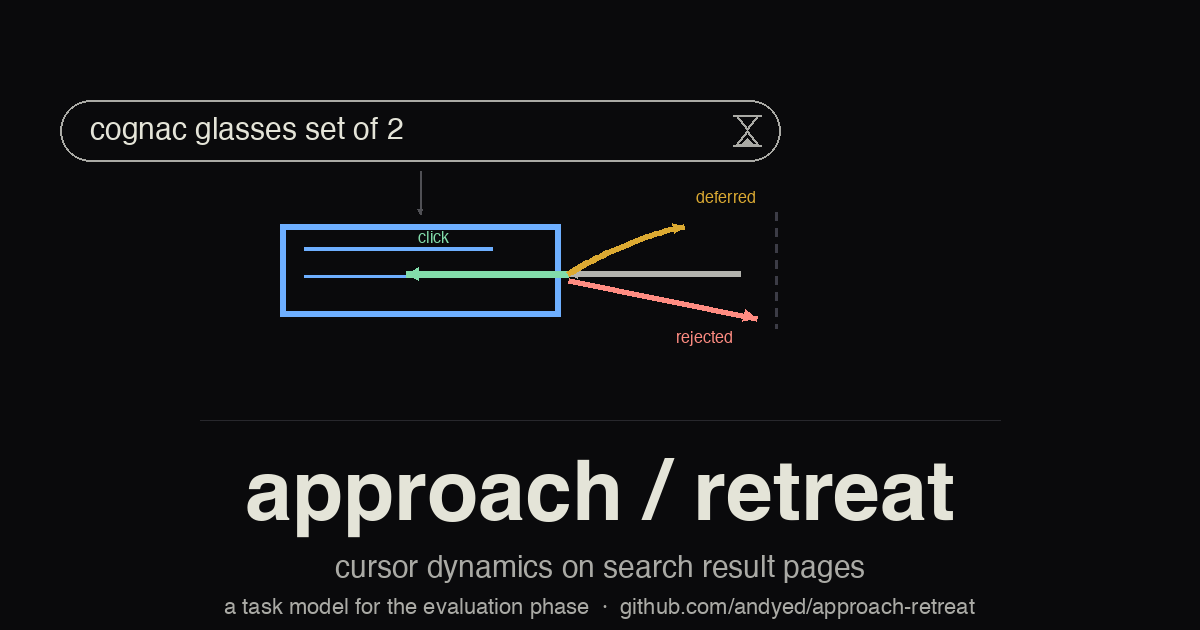
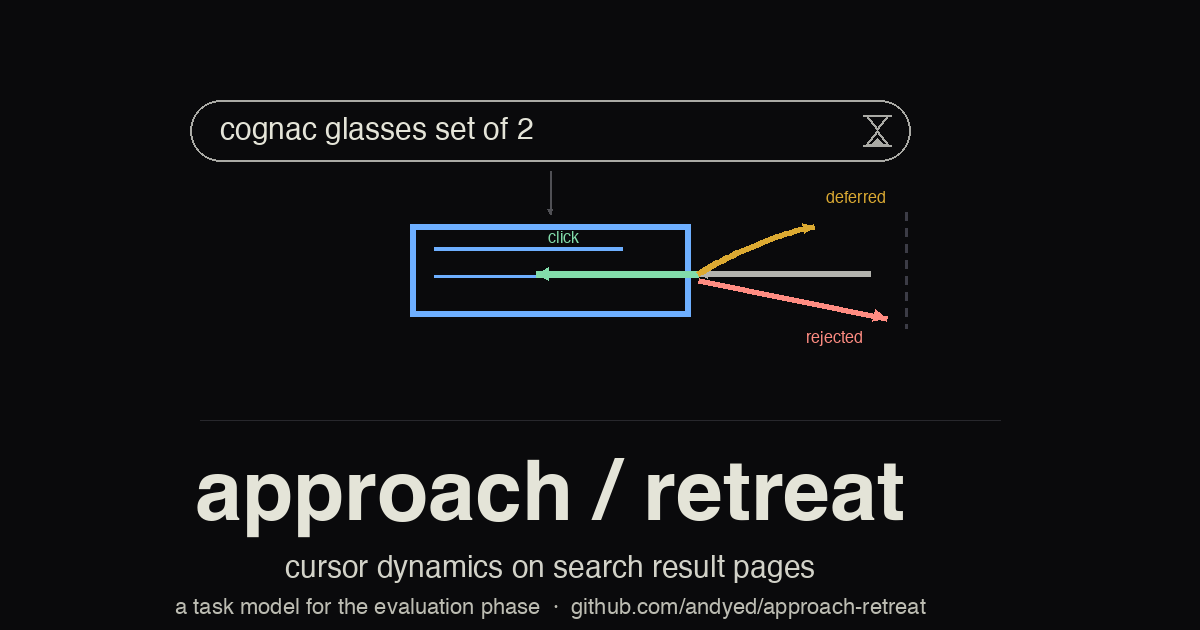
feat: brand fixes, expanded related work, Leiva program citation
Brand:
- Bright explanatory text (BRIGHT 13:1, BRIGHT_DIM 10:1) for tagline
  and attribution — was too dim at SUBTEXT (8.5:1)
- Input box + hourglass icon above the AOI in social header
- Layout anchored on AOI center, not viewport center, so input box,
  result, and wordmark share a single vertical axis

README:
- Fix ClickSense framing: ClickSense is approach+click dynamics on
  arbitrary clickable elements; approach-retreat is SERP-list-specific
- Rewrite Related work section: full Leiva/Arapakis research-program
  table (8 papers across 9 years), AdSERP validation with notebook
  citations, Brückner head-to-head beat (+12.5 AUC), C/W/L framework
  extension. Remove premature Azzopardi/Dixon-Moses co-authorship.

diff --git a/scripts/brand.py b/scripts/brand.py
@@ -35,8 +35,10 @@ DEFERRED = (220, 170, 50)      # amber — minor retreat (coming back)
 REJECTED = (255, 140, 130)     # coral — major retreat (gone)
 APPROACH = (180, 180, 175)     # neutral — the incoming approach
 HOME_ZONE = (60, 60, 70)       # subtle — cursor parking indicator
-TEXT = (228, 228, 216)
-SUBTEXT = (170, 170, 165)
+TEXT = (228, 228, 216)       # primary — 15.4:1
+BRIGHT = (210, 210, 200)     # tagline and other explanatory text — ~13:1
+BRIGHT_DIM = (188, 188, 178) # secondary explanatory (attribution etc) — ~10:1
+SUBTEXT = (170, 170, 165)    # UI chrome only (search box border, dividers) — 8.5:1
 
 
 def luminance(rgb):
@@ -62,6 +64,8 @@ for name, color in [
     ("REJECTED", REJECTED),
     ("APPROACH", APPROACH),
     ("TEXT", TEXT),
+    ("BRIGHT", BRIGHT),
+    ("BRIGHT_DIM", BRIGHT_DIM),
     ("SUBTEXT", SUBTEXT),
 ]:
     r = contrast_ratio(color, BG)
@@ -364,23 +368,31 @@ W, H = 1200, 630
 social = Image.new('RGB', (W, H), BG)
 draw = ImageDraw.Draw(social)
 
-# Input box at top — query + hourglass, positioned above the AOI
-# The AOI in the glyph (scale 2.0) sits at cy=250, box_l = 250-240=10 from cx
-# AOI width at scale 2.0 is 280, so we center the input box over the AOI's cx
+# Layout strategy: everything (input box, AOI, title, tagline, attribution)
+# shares a single vertical axis — the AOI's center x. The glyph's home zone
+# and labels extend right as visual annotations, not shifting the axis.
 GLYPH_SCALE = 2.0
-GLYPH_CX = W // 2 - int(40 * GLYPH_SCALE)  # shift glyph slightly left so labels have room
+# Choose an anchor_x that leaves room for glyph extension to the right
+# At scale 2.0: AOI extends 120 left, home zone extends ~140 right of AOI center,
+# plus ~90px for the rejected label → total composition width ~580, visual
+# weight right of the AOI by ~50-70px. Place anchor_x slightly left of W/2
+# so the composition looks balanced in the frame.
+anchor_x = W // 2 - 50
+
+# AOI center = anchor_x. In draw_brand_glyph, box_l = cx - 120*scale, so the
+# AOI center (box_l + box_w/2) is at cx - 50*scale. Solve: cx = anchor_x + 50*scale
+GLYPH_CX = anchor_x + int(50 * GLYPH_SCALE)
 GLYPH_CY = 270
 
-# Compute AOI center within the glyph
-aoi_cx = GLYPH_CX - int(50 * GLYPH_SCALE)  # box_l offset from cx is -120*scale, box center is -50*scale
-aoi_top_y = GLYPH_CY - int(23 * GLYPH_SCALE)  # box_h/2 = 23*scale
+aoi_cx = anchor_x  # by construction
+aoi_top_y = GLYPH_CY - int(23 * GLYPH_SCALE)
 
-# Input box centered on the AOI's x, above it
+# Input box centered on anchor_x, above the AOI
 input_width = int(360 * GLYPH_SCALE)
 input_top = 100
 draw_input_box(draw, aoi_cx, input_top, input_width, scale=1.4, query_text="cognac glasses set of 2")
 
-# Connector line from input box down to the AOI (suggests query → result flow)
+# Connector line from input box down to the AOI
 input_bottom = input_top + int(44 * 1.4)
 conn_gap = 10
 draw.line(
@@ -388,7 +400,6 @@ draw.line(
     fill=(80, 80, 85),
     width=2,
 )
-# Tiny arrowhead at the AOI
 draw_arrowhead(draw, (aoi_cx, aoi_top_y - conn_gap), math.pi / 2, 5, (80, 80, 85))
 
 # The brand glyph
@@ -409,15 +420,15 @@ attribution = "a task model for the evaluation phase  ·  github.com/andyed/appr
 
 bbox = draw.textbbox((0, 0), title, font=title_font)
 title_w = bbox[2] - bbox[0]
-draw.text(((W - title_w) // 2, 455), title, fill=TEXT, font=title_font)
+draw.text((anchor_x - title_w // 2, 455), title, fill=TEXT, font=title_font)
 
 bbox = draw.textbbox((0, 0), tagline, font=subtitle_font)
 tag_w = bbox[2] - bbox[0]
-draw.text(((W - tag_w) // 2, 553), tagline, fill=SUBTEXT, font=subtitle_font)
+draw.text((anchor_x - tag_w // 2, 553), tagline, fill=BRIGHT, font=subtitle_font)
 
 bbox = draw.textbbox((0, 0), attribution, font=attribution_font)
 attr_w = bbox[2] - bbox[0]
-draw.text(((W - attr_w) // 2, 597), attribution, fill=SUBTEXT, font=attribution_font)
+draw.text((anchor_x - attr_w // 2, 597), attribution, fill=BRIGHT_DIM, font=attribution_font)
 
 social.save(OUT_DIR / "social-header.png")
 print(f"  → social-header.png")

diff --git a/README.md b/README.md
@@ -1,12 +1,18 @@
 # Approach/Retreat
 
-Cursor approach-retreat dynamics on search result pages. SERP-specific companion to [ClickSense](https://github.com/andyed/clicksense).
+Cursor approach-retreat dynamics on **ranked list layouts** (search result pages, recommendation feeds, comparison tables). Sister library to [ClickSense](https://github.com/andyed/clicksense).
 
 ## The idea
 
 Before you click a search result, your cursor tells a story. It approaches a result (interest), dwells over it (evaluation), then either commits (click) or retreats. The geometry of that retreat — how curved, how far, how directly — distinguishes results the user is done with from results they may come back to. Curved + close retreats predict re-approach; straight + far retreats predict commitment to rejection.
 
-ClickSense captures the moment of commitment (mousedown to mouseup). Approach/Retreat captures everything before: the evaluation phase where most of the cognitive work happens.
+### How this differs from ClickSense
+
+**ClickSense** instruments approach + click dynamics on arbitrary clickable elements (buttons, cards, links) — vendor-agnostic motor confidence across any layout. The signal is per-click: approach velocity, hold duration, trajectory shape.
+
+**Approach/Retreat** is SERP-specific. It models the evaluation phase across a *list* of ranked candidates, tracking enter/dwell/exit episodes at each position and classifying them into a four-class taxonomy (clicked / deferred / evaluated-rejected / not-approached). The signal is per-SERP: which results were considered, which were skipped, and which were kept in reserve.
+
+Both libraries compose — a page can run both. ClickSense sees each click as a moment; approach-retreat sees the whole page of decisions leading up to it.
 
 ### Signals
 
@@ -117,17 +123,53 @@ Starting with: **"Will AI be an existential threat to humanity?"** — synthetic
 
 - **[`docs/theory.md`](docs/theory.md)** — Concise theoretical writeup. What the library measures, what the signals mean, the lineage of cursor-on-SERP work, and what we initially proposed but rejected after the data didn't support it.
 - **[`docs/one-pager.md`](docs/one-pager.md)** — Why a task model beats a 638-feature bag for SERP cursor analysis. The four-class taxonomy, discrimination cost, retreat geometry as deliberation indicator. Citations to prior work.
+- **[`docs/validation/attcur-bruckner.md`](docs/validation/attcur-bruckner.md)** — Public head-to-head validation against Brückner, Arapakis & Leiva (SIGIR '21) on their own benchmark. Approach-retreat features beat a scalar mouse-length baseline by +12.5 AUC on ad click prediction (0.821 vs 0.696) with a non-learned 11-feature logistic regression. Reproduction pipeline at [`analysis/attcur-validation/`](analysis/attcur-validation/).
 
 ## Related work
 
-This library is the instrumentation half of an ongoing research program. The analysis half lives in [attentional-foraging](https://github.com/andyed/attentional-foraging), which reanalyzes the AdSERP dataset (Latifzadeh, Gwizdka & Leiva, SIGIR '25 — 2,776 trials, 47 participants, simultaneous eye + mouse + pupil tracking) to validate the approach-retreat framework against ground-truth gaze data.
+This library is the instrumentation half of a two-part research program:
 
-Key findings from that work motivate this library:
-- **Four-class taxonomy** — clicked / deferred / evaluated-rejected / not-approached — is recoverable from cursor trajectories alone (NB22, click prediction AUC 0.821)
-- **Discrimination cost signature** — top ads produce distinctive cursor hesitation compared to organic results (NB20: 2× approach rate, 2.3× dwell, higher pupil dilation)
-- **C/W/L framework extension** — Azzopardi, Thomas & Craswell (SIGIR '18) predicted ads evaluate cheaper than organic; the data shows the opposite for top ads (discrimination, not reading difficulty), suggesting a missing variable in the cost model
+- **Analysis:** [attentional-foraging](https://github.com/andyed/attentional-foraging) — a reanalysis of the AdSERP dataset (Latifzadeh, Gwizdka & Leiva, SIGIR '25; 2,776 trials, 47 participants, simultaneous eye + mouse + scroll + pupil tracking) that produces the OSEC task model and the four-class taxonomy.
+- **Deployment:** this library — the task model in runnable form. You get the signal without the eye tracker.
 
-This library is the deployable form of that research: you get the signal without the eye tracker.
+### The Leiva/Arapakis research program
+
+The cursor-on-SERP lineage this work builds on runs through a single sustained collaboration — Luis Leiva and Ioannis Arapakis have been producing the foundational datasets, features, and baselines for more than a decade. Approach/retreat is best understood as a task-model layer on top of their instrument.
+
+| Year | Paper | What it contributed |
+|---|---|---|
+| 2016 | Arapakis & Leiva. ["Predicting user engagement with direct displays"](https://dl.acm.org/doi/10.1145/2911451.2911505) (SIGIR) | 638 cursor features → 0.86 AUC attention prediction on Yahoo Knowledge Modules. Established that cursor telemetry alone is strong signal. |
+| 2020 | Arapakis, Penta, Joho & Leiva. "A Price-per-attention Auction Scheme Using Mouse Cursor Information" (ACM TOIS) | Cursor-derived attention as an auction-scheme currency — the economic framing that motivates the rest of the program. |
+| 2020 | Arapakis & Leiva. "Learning Efficient Representations of Mouse Movements to Predict User Attention" (SIGIR) | Neural-embedding precursor to AdSight — learned representations of cursor trajectories. |
+| 2020 | Leiva & Arapakis. ["The Attentive Cursor Dataset"](https://doi.org/10.3389/fnhum.2020.565664) (Frontiers) | 2,737 users, cursor + self-reported attention labels + SERP HTML. Largest public cursor-on-SERP dataset. |
+| 2021 | Leiva, Arapakis & Iordanou. "My Mouse, My Rules" (CHIIR) | Privacy analysis of the same telemetry primitives — important context for any deployment. |
+| 2021 | **Brückner, Arapakis & Leiva.** ["When Choice Happens: A Systematic Examination of Mouse Movement Length for Decision Making in Web Search"](https://dl.acm.org/doi/10.1145/3404835.3463011) (SIGIR) | Scalar "mouse movement length" as a relevance signal. **This is the closest published work to approach/retreat — a single-feature version of what the four-class taxonomy decomposes.** |
+| 2025 | Latifzadeh, Gwizdka & Leiva. "A Versatile Dataset of Mouse and Eye Movements on Search Engine Results Pages" (SIGIR) | AdSERP: eye + mouse + pupil + ad boundaries on 2,776 trials. The dataset this work is built on. |
+| 2025 | Arapakis et al. "AdSight" (SIGIR) | Transformer-based click prediction from cursor + layout. The modern black-box counterpart to the task-model approach here. |
+
+### What approach/retreat adds
+
+Each of the papers above treats cursor behavior as a *signal to decode*. None of them adopt a **task model** for the evaluation phase. The contribution here is specifically the OSEC → four-class decomposition, which turns a 638-feature brute-force problem into a ~6-feature parsimonious one and recovers an interpretable taxonomy (clicked / deferred / evaluated-rejected / not-approached) instead of a scalar score.
+
+### Validation against AdSERP (attentional-foraging)
+
+The four-class taxonomy and retreat geometry claims are validated in the attentional-foraging notebooks:
+
+- **Click prediction (NB21, NB22):** Episode-level features (dwell, retreat distance, arc ratio, visit count) → AUC 0.821 for click prediction. With element-type interactions → 0.838. Competitive with Arapakis & Leiva 2016 (0.86 AUC, 638 features) using ~6 features because the task model tells you which features matter.
+- **Retreat arc geometry (NB24):** Top ads show 2.36× arc ratio (curved retreats) vs 1.08 for organic (near-straight). Re-approached retreats have both higher arc ratio (2.09 vs 1.18) and lower Fitts ID (2.21 vs 2.31 bits) — the DEFERRED signature is curved + close.
+- **Discrimination cost (NB20):** Top ads produce 2× the approach rate of organic results, 2.3× the dwell, 17× the lateral drift during retreat, and the highest pupil dilation (+0.41%). This is the C/W/L violation: top ads evaluate *more* expensively than organic, not less.
+- **Public head-to-head against Brückner et al. 2021:** See [`docs/validation/attcur-bruckner.md`](docs/validation/attcur-bruckner.md). Approach-retreat features beat the Brückner scalar mouse-movement-length baseline by +12.5 AUC (0.821 vs 0.696) on their own ad-click-prediction benchmark, using an 11-feature logistic regression — no neural network, no embeddings. The task model is the whole reason for the gap.
+
+### Framework extensions
+
+- **C/W/L (Azzopardi, Thomas & Craswell, SIGIR '18)** predicts user evaluation cost decreases with position — ads should be cheaper than organic because they demand less reading. The AdSERP data shows the opposite for top ads: discrimination ("is this ad or result?") is a cost C/W/L doesn't model. Adding a retreat × is_top_ad interaction lifts click-prediction AUC from 0.884 to 0.914. A CIKM 2026 paper draft formalizes this as a missing variable in the framework.
+- **Information Foraging Theory (Pirolli & Card, 1999)** provides the patch-leaving vocabulary, but operates at the session level. OSEC applies the same foraging lens at the per-result evaluation level — each result is a mini-patch with its own cost and reward. Retreat geometry is the motor trace of the patch-leaving decision.
+
+### Datasets used for validation
+
+- [AdSERP](https://github.com/kayhan-latifzadeh/AdSERP) — primary, via attentional-foraging
+- [The Attentive Cursor Dataset](https://gitlab.com/iarapakis/the-attentive-cursor-dataset) — public (no permission required), 2,737 users, self-reported attention labels, for scale replication. Cloning and taxonomy validation pending.
+- [Brückner et al. 2021 artifacts](https://dl.acm.org/doi/10.1145/3404835.3463011) — head-to-head beat documented in [`docs/validation/attcur-bruckner.md`](docs/validation/attcur-bruckner.md).
 
 ## References
 